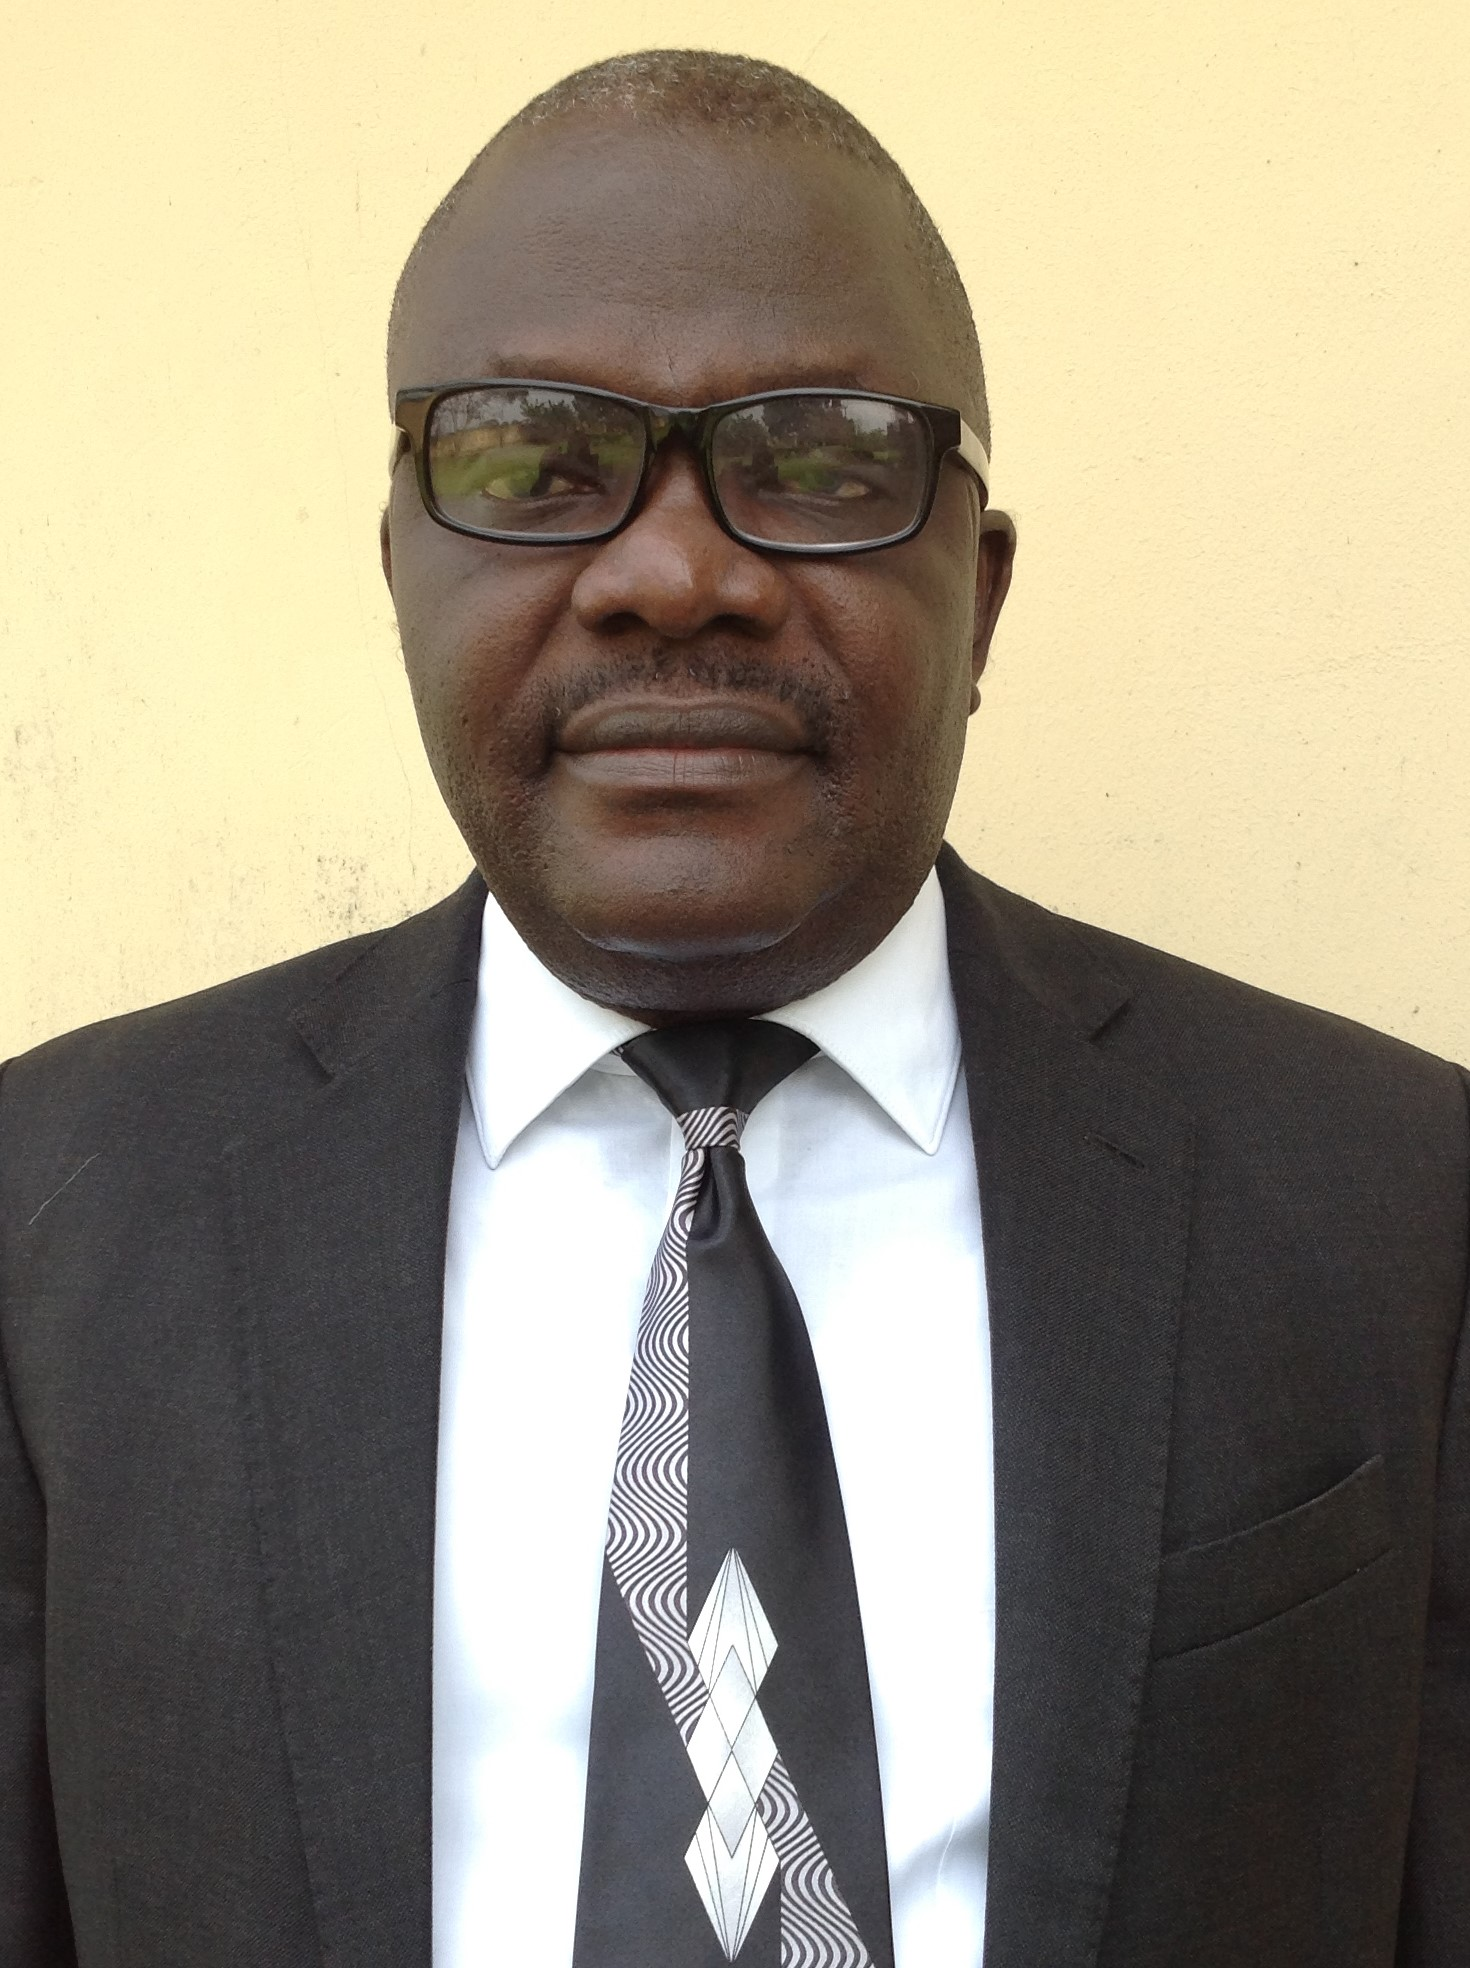
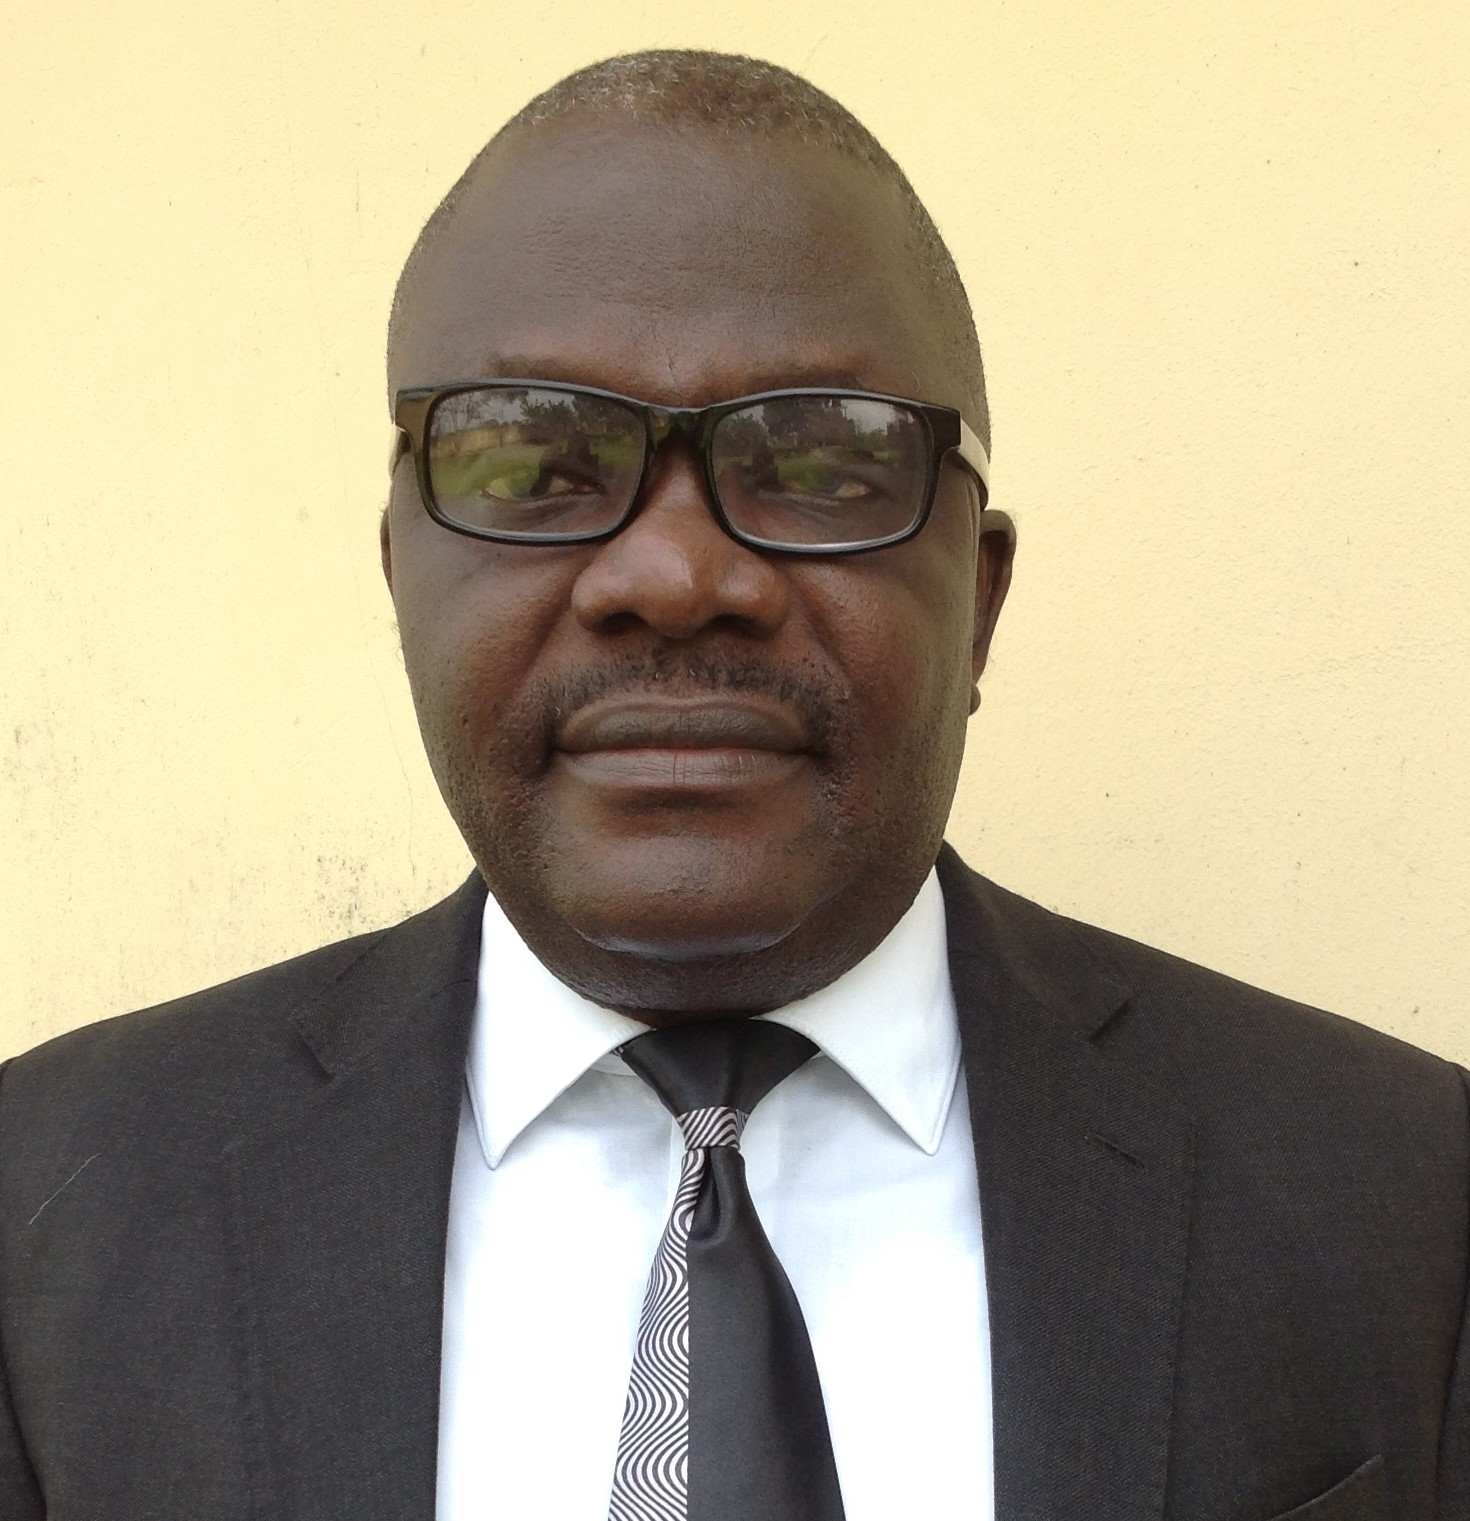
git commit -m "Update frontend assets"

diff --git a/style.css b/style.css
@@ -278,11 +278,62 @@ nav{
     line-height: 1.7;
 }
 
+/* OUR TEAM SECTION */
+.team-section{
+    width: 100%;
+    padding: 100px 7%;
+    background-color: #f5f5f5;
+}
+.team-content{
+    width: 100%;
+    max-width: 1100px;
+    margin: auto;
+
+    background-color: white;
+    padding: 50px;
+    border-radius: 15px;
+
+    box-shadow: 0 8px 16px rgba(0,0,0,0.1);
+}
+.team-content h2{
+    font-size: 40px;
+    margin-bottom: 20px;
+    color: #061d2b;
+    text-align: center;
+}
+.team-content p{
+    line-height: 1.8;
+    color: #333;
+    text-align: center;
+}
+.team-container {
+    display: flex;
+    justify-content: space-between;
+    gap: 30px;
+    margin-top: 40px;
+}
+/* Team member */
+.team-member {
+    flex: 1;
+    text-align: center;
+}
+.team-member img {
+    width: 100%;
+    border-radius: 50%;
+    margin-bottom: 20px;
+}
+.team-member h3 {
+    color: #061d2b;
+}
+.team-member p {
+    color: #555;
+    line-height: 1.7;
+}
 /* CONTACT SECTION */
 .contact-section{
     width: 100%;
     padding: 100px 7%;
-    background-color: #f5f5f5;
+    background-color: #061d2b;
 }
 .contact-content{
     width: 100%;
@@ -331,7 +382,7 @@ nav{
     transition: 0.3s;
 }
 .contact-content form button:hover{
-    background-color: #00bfff;
+    background-color: #033b5d;
 }
 .contact-content form button:active{
     transform: scale(0.98);
@@ -410,6 +461,17 @@ nav{
     .contact-content .flex-contact div{
         width: 100%;
     }
+
+    /* OUR TEAM SECTION */
+    .team-container{
+        flex-direction: column;
+    }
+
+     .team-member {
+        width: 100%;
+        max-width: 300px;
+        margin: auto;
+    }
 }
 
 /* MOBILE RESPONSIVENESS */
@@ -486,6 +548,11 @@ nav{
     .contact-content h2{
         font-size: 30px;
     }
+
+    /* OUR TEAM SECTION */
+    .team-content{
+        padding: 30px 20px;
+    }
 }
 
 /* SMALL MOBILE */
@@ -516,5 +583,10 @@ nav{
     /* CONTACT SECTION */
     .contact-content form button{
         font-size: 14px;
+    }
+
+    /* OUR TEAM SECTION */
+    .team-member {
+        max-width: 250px;
     }
 }

diff --git a/index.html b/index.html
@@ -160,7 +160,7 @@
 <section class="team-section">
     <!-- Section Title -->
     <div class="team-content">
-        <span>Our Team</span>
+        <h2>Our Team</h2>
         <p>
             Passionate professionals dedicated to delivering excellence and innovation.
         </p>
@@ -179,7 +179,7 @@
         <div class="team-member">
             <img src="images/cto.png" alt="Team Member 2">
             <h3>Godwin George</h3>
-            <p>Chief Technology Officer</p>
+            <p>Operation Manager</p>
         </div>
         <!-- Team Member 3 -->
         <div class="team-member">
@@ -190,8 +190,8 @@
         <!-- Team Member 4 -->
         <div class="team-member">
             <img src="images/Johnson.jpg" alt="Team Member 4">
-            <h3>Ese-Abasi Johnson</h3>
-            <p>IT Support Specialist</p>
+            <h3>Eseabasi Johnson</h3>
+            <p>IT Specialist</p>
         </div>
     </div>
 </section>